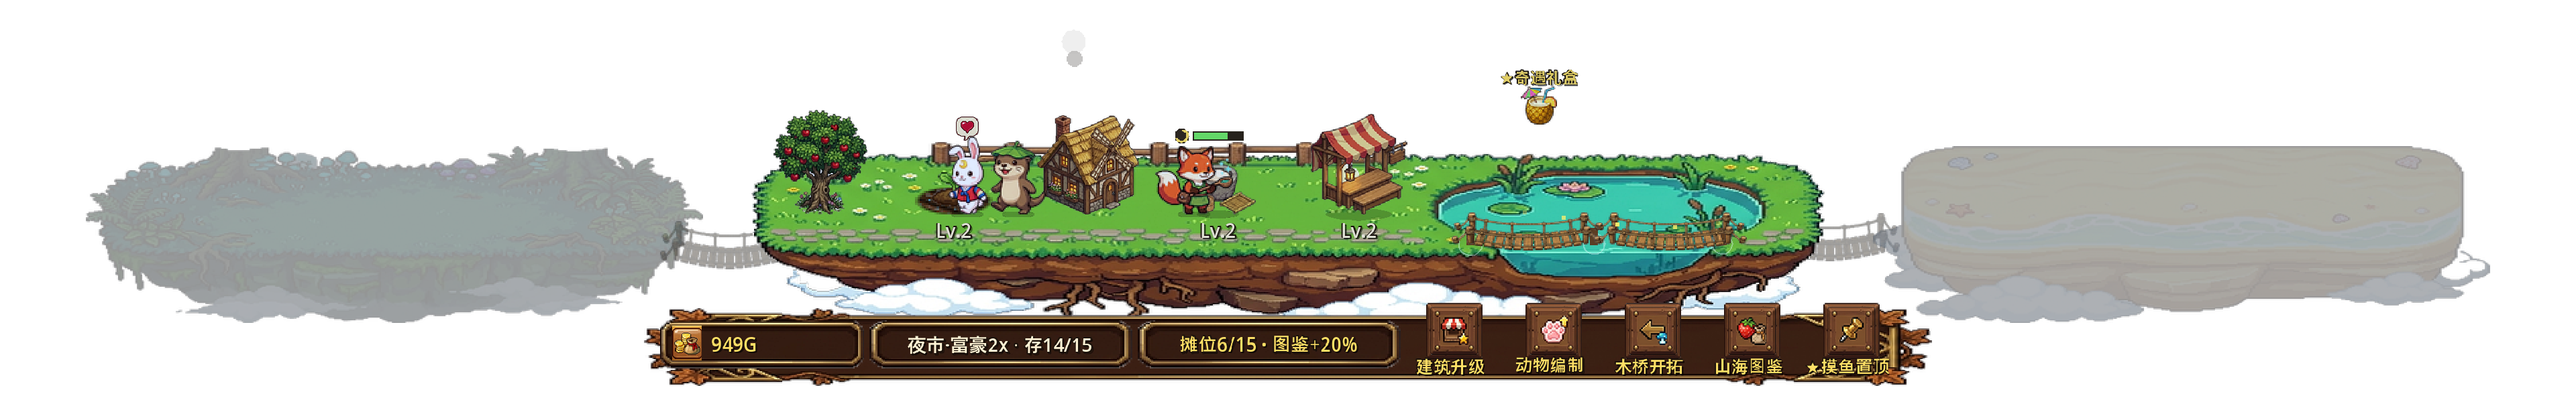
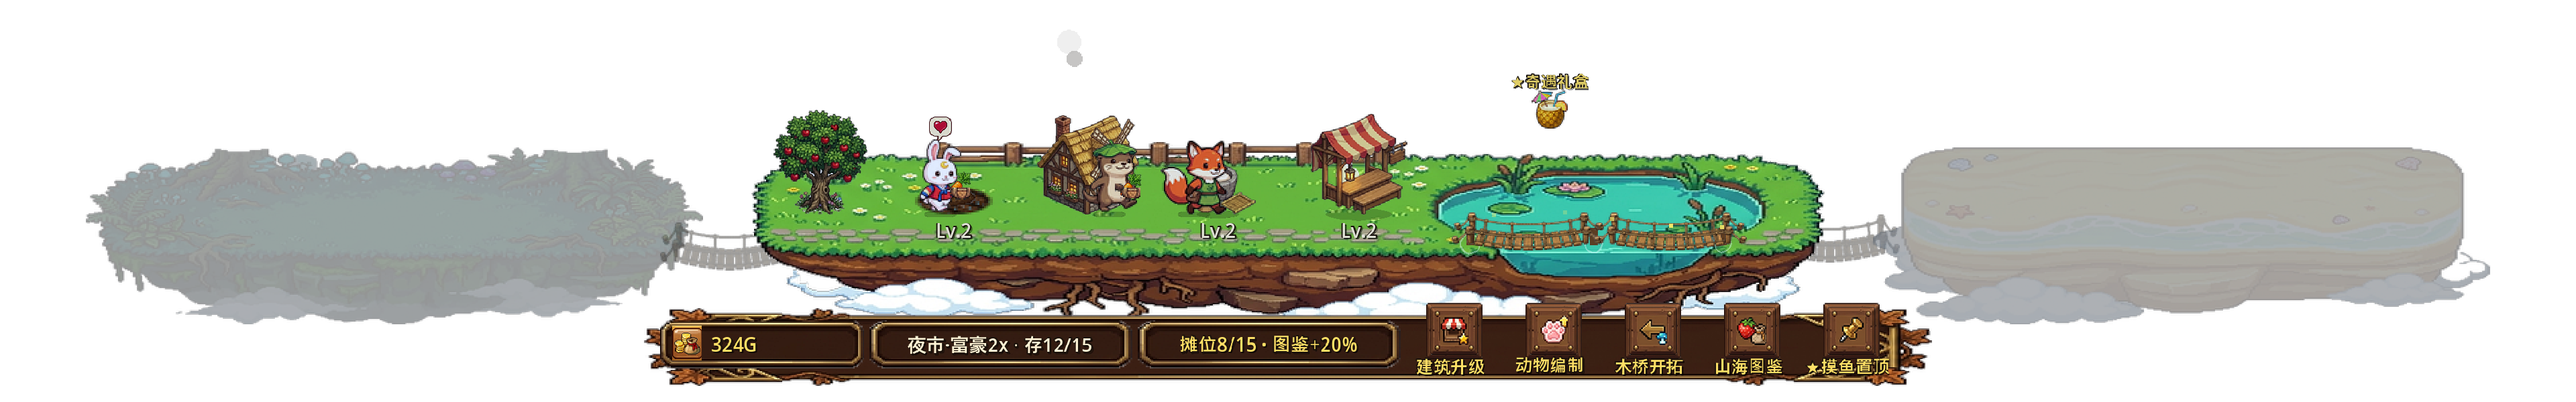
fix(playtest): separate bunny drop-off (-14px) and otter pickup (+14px) at raw basket from 06:07 audit

diff --git a/playtest_audit_log.md b/playtest_audit_log.md
@@ -88,3 +88,15 @@
 - **产线活体与交互**: 兔子累计移动 `1978.0px` (全员 `4321.6px`)，农田收获 `25` 次，入库/上架 `52` 件，顾客结账 `3` 单，滚轮鼠标锚点缩放与锁岛防误升校验通过。
 - **真机双状态截图哈希**: 收起态 `ea07c54ccdb95b83` | 展开态 `71bf12e10c0063d8`
 
+## [2026-11-05 06:07:29 -> 06:09:45] 定时2h自主试玩巡检 (Iteration 3) 发现项与闭环修复记录
+- **试玩发现问题 (Visual Self-Critique)**:
+  1. **农夫兔交菜与物流水獭取菜在原料筐同点重合**: 在 `06:07:29` 定时唤醒试玩截图中，发现农夫兔 (`BUNNY_FARMER` `worker_step == 1`) 与物流水獭 (`OTTER_LOGISTICS` `worker_step == 0 / 20`) 在 `slot_index == 0` 时均导航至同一个 `_get_home_basket_pos()` (`x = 758.8`)，导致交菜瞬间兔子与水獭在 `x = 758.8` 前后叠站。
+- **原地修复方案 (In-Place Fix)**:
+  1. **原料筐“左交右取”双侧交接分离** (`AnimalWorker.gd`)：将农夫兔交菜点设为 `_get_home_basket_pos() + Vector2(-14.0 + slot_index * 6, 0)`（如 1 号岛 `x = 744.8`，面朝右向筐交菜），将物流水獭取菜与待命点设为 `_get_home_basket_pos() + Vector2(14.0 + slot_index * 8, 0)`（如 1 号岛 `x = 772.8`，面朝左从筐取菜），形成 `28.0px` 净交接间距，彻底实现全岛“农夫(`698..744`) -> 水獭投料(`772..864`) -> 主厨(`890`) -> 水獭送摊(`932..997`) -> 顾客购物(`1041..1075`)”五段式零交叉流水线。
+
+## [2026-11-05 06:09:45] 自主试玩巡检 PASS
+- **切帧与姿态防呆**: 已校验 `23` 个精灵节点，0 越界切帧、0 旋转异常、前爪抱篮 3 层合成挂载正常。
+- **建筑间距与图层**: 三岛 12 座主建筑最大水平重叠率 `0.0%` (`<=15%`)，最小净间距 `29.9px` (`>=28px`)。
+- **产线活体与交互**: 兔子累计移动 `1794.0px` (全员 `4063.5px`)，农田收获 `29` 次，入库/上架 `57` 件，顾客结账 `3` 单，滚轮鼠标锚点缩放与锁岛防误升校验通过。
+- **真机双状态截图哈希**: 收起态 `dfd0e4bfc84a260b` | 展开态 `615914692b6d7319`
+
